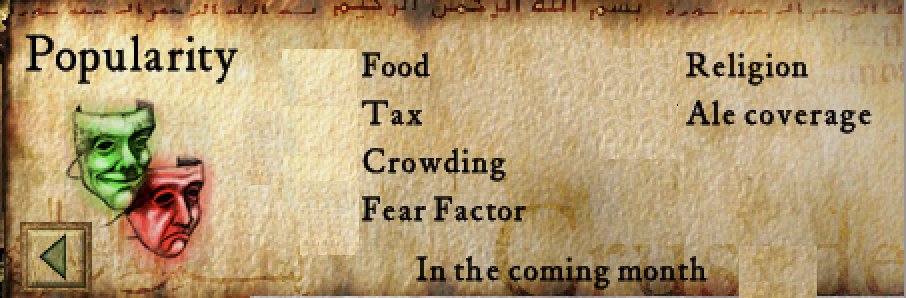
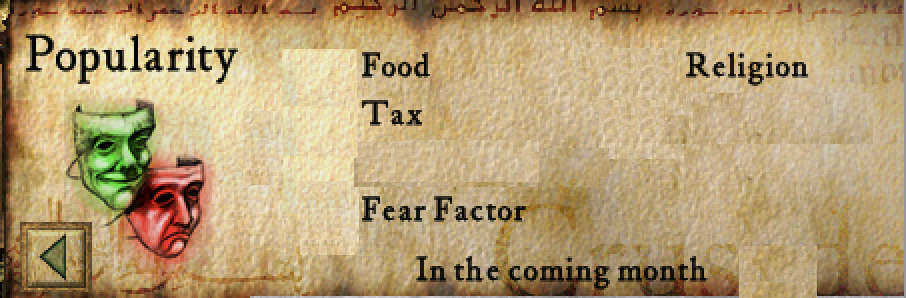
popularity completed

Changed region(s): [[0.3709, 0.453, 0.6799, 0.6342], [0.7108, 0.302, 0.989, 0.4832]]

diff --git a/src/main/java/View/Controller/GameGraphicController.java b/src/main/java/View/Controller/GameGraphicController.java
@@ -1,6 +1,7 @@
 package View.Controller;
 
 import Model.Buildings.Building;
+import Model.Buildings.TownBuilding;
 import Model.DataBase;
 import View.Game;
 import View.Main;
@@ -9,6 +10,7 @@ import javafx.event.EventHandler;
 import javafx.fxml.FXMLLoader;
 import javafx.scene.Scene;
 import javafx.scene.control.Label;
+import javafx.scene.control.Slider;
 import javafx.scene.image.Image;
 import javafx.scene.image.ImageView;
 import javafx.scene.input.MouseEvent;
@@ -90,7 +92,9 @@ public class GameGraphicController {
     }
 
     private static void fillPopularityFactorsMenuLabelsAndImages() throws MalformedURLException, FileNotFoundException {
-        int foodNumberInt = DataBase.getCurrentGovernment().getFood() * 4;
+        DataBase.getCurrentGovernment().updateBuildingPopularity();
+
+        int foodNumberInt = (DataBase.getCurrentGovernment().getFood()) * 4;
         int taxNumberInt = 0;
         int tax = DataBase.getCurrentGovernment().getTax();
         if (tax <= 0) taxNumberInt += (tax * (-2) + 1);
@@ -102,32 +106,32 @@ public class GameGraphicController {
         int totalNumberInt = foodNumberInt + fearNumberInt + religionNumberInt + taxNumberInt;
 
         foodImage.setLayoutX(200);
-        foodImage.setY(27);
+        foodImage.setY(25);
         foodNumber.setLayoutX(170);
         foodNumber.setLayoutY(39);
 
         taxImage.setLayoutX(200);
-        taxImage.setLayoutY(66);
+        taxImage.setLayoutY(63);
         taxNumber.setLayoutX(170);
         taxNumber.setLayoutY(78);
 
         fearImage.setLayoutX(200);
-        fearImage.setLayoutY(138);
+        fearImage.setLayoutY(135);
         fearNumber.setLayoutX(170);
         fearNumber.setLayoutY(150);
 
         religionImage.setLayoutX(412);
-        religionImage.setLayoutY(27);
+        religionImage.setLayoutY(25);
         religionNumber.setLayoutX(378);
         religionNumber.setLayoutY(39);
 
         totalImage.setLayoutX(492);
-        totalImage.setLayoutY(180);
+        totalImage.setLayoutY(175);
         totalNumber.setLayoutX(538);
         totalNumber.setLayoutY(192);
 
         popularityFactorsPane.getChildren().addAll(foodImage , foodNumber , fearImage , fearNumber , religionImage
-        , religionNumber , taxNumber , taxImage );
+        , religionNumber , taxNumber , taxImage , totalNumber , totalImage);
 
         foodNumber = new Label(fearNumberInt + "");
         if(foodNumberInt > 0)
@@ -170,6 +174,49 @@ public class GameGraphicController {
             totalImage.setImage(new Image(new FileInputStream("src/main/resources/Images/avatars/pokerFace.png")));
         else
             totalImage.setImage(new Image(new FileInputStream("src/main/resources/Images/avatars/sadFace.png")));
+
+        // place sliders to change rates
+        Slider foodSlider = new Slider(-2 , 2  , 0);
+        foodSlider.setLayoutX(290);
+        foodSlider.setLayoutY(40);
+        foodSlider.setPrefWidth(90);
+
+        foodSlider.setOnMouseReleased(new EventHandler<MouseEvent>() {
+            @Override
+            public void handle(MouseEvent event) {
+                int foodRate = (int) Math.floor(foodSlider.getValue());
+                DataBase.getCurrentGovernment().setFood(foodRate);
+            }
+        });
+
+        Slider taxSlider = new Slider(-3 , 8 , 0);
+        taxSlider.setLayoutX(300);
+        taxSlider.setLayoutY(80);
+        taxSlider.setPrefWidth(90);
+
+        taxSlider.setOnMouseReleased(new EventHandler<MouseEvent>() {
+            @Override
+            public void handle(MouseEvent event) {
+                int taxRate = (int) Math.floor(taxSlider.getValue());
+                DataBase.getCurrentGovernment().setTax(taxRate);
+            }
+        });
+
+        Slider fearSlider = new Slider(-3 , 8 , 0);
+        fearSlider.setLayoutX(360);
+        fearSlider.setLayoutY(150);
+        fearSlider.setPrefWidth(90);
+
+        fearSlider.setOnMouseReleased(new EventHandler<MouseEvent>() {
+            @Override
+            public void handle(MouseEvent event) {
+                int fearRate = (int) Math.floor(fearSlider.getValue());
+                DataBase.getCurrentGovernment().setFear(fearRate);
+            }
+        });
+
+
+        popularityFactorsPane.getChildren().addAll(foodSlider , taxSlider , fearSlider);
     }
 
     public void openConstructorBuildingsMenu(MouseEvent ignoredMouseEvent) throws IOException {

diff --git a/src/main/java/View/Game.java b/src/main/java/View/Game.java
@@ -645,6 +645,7 @@ public class Game extends Application{
             detail = FXMLLoader.load(
                     new URL(Objects.requireNonNull(Game.class.getResource("/fxml/EngineerGuild.fxml")).toExternalForm()));
         } else if (building.getName().equals("Shop")) {
+            
 
         } else {
             //TODO : change it !
